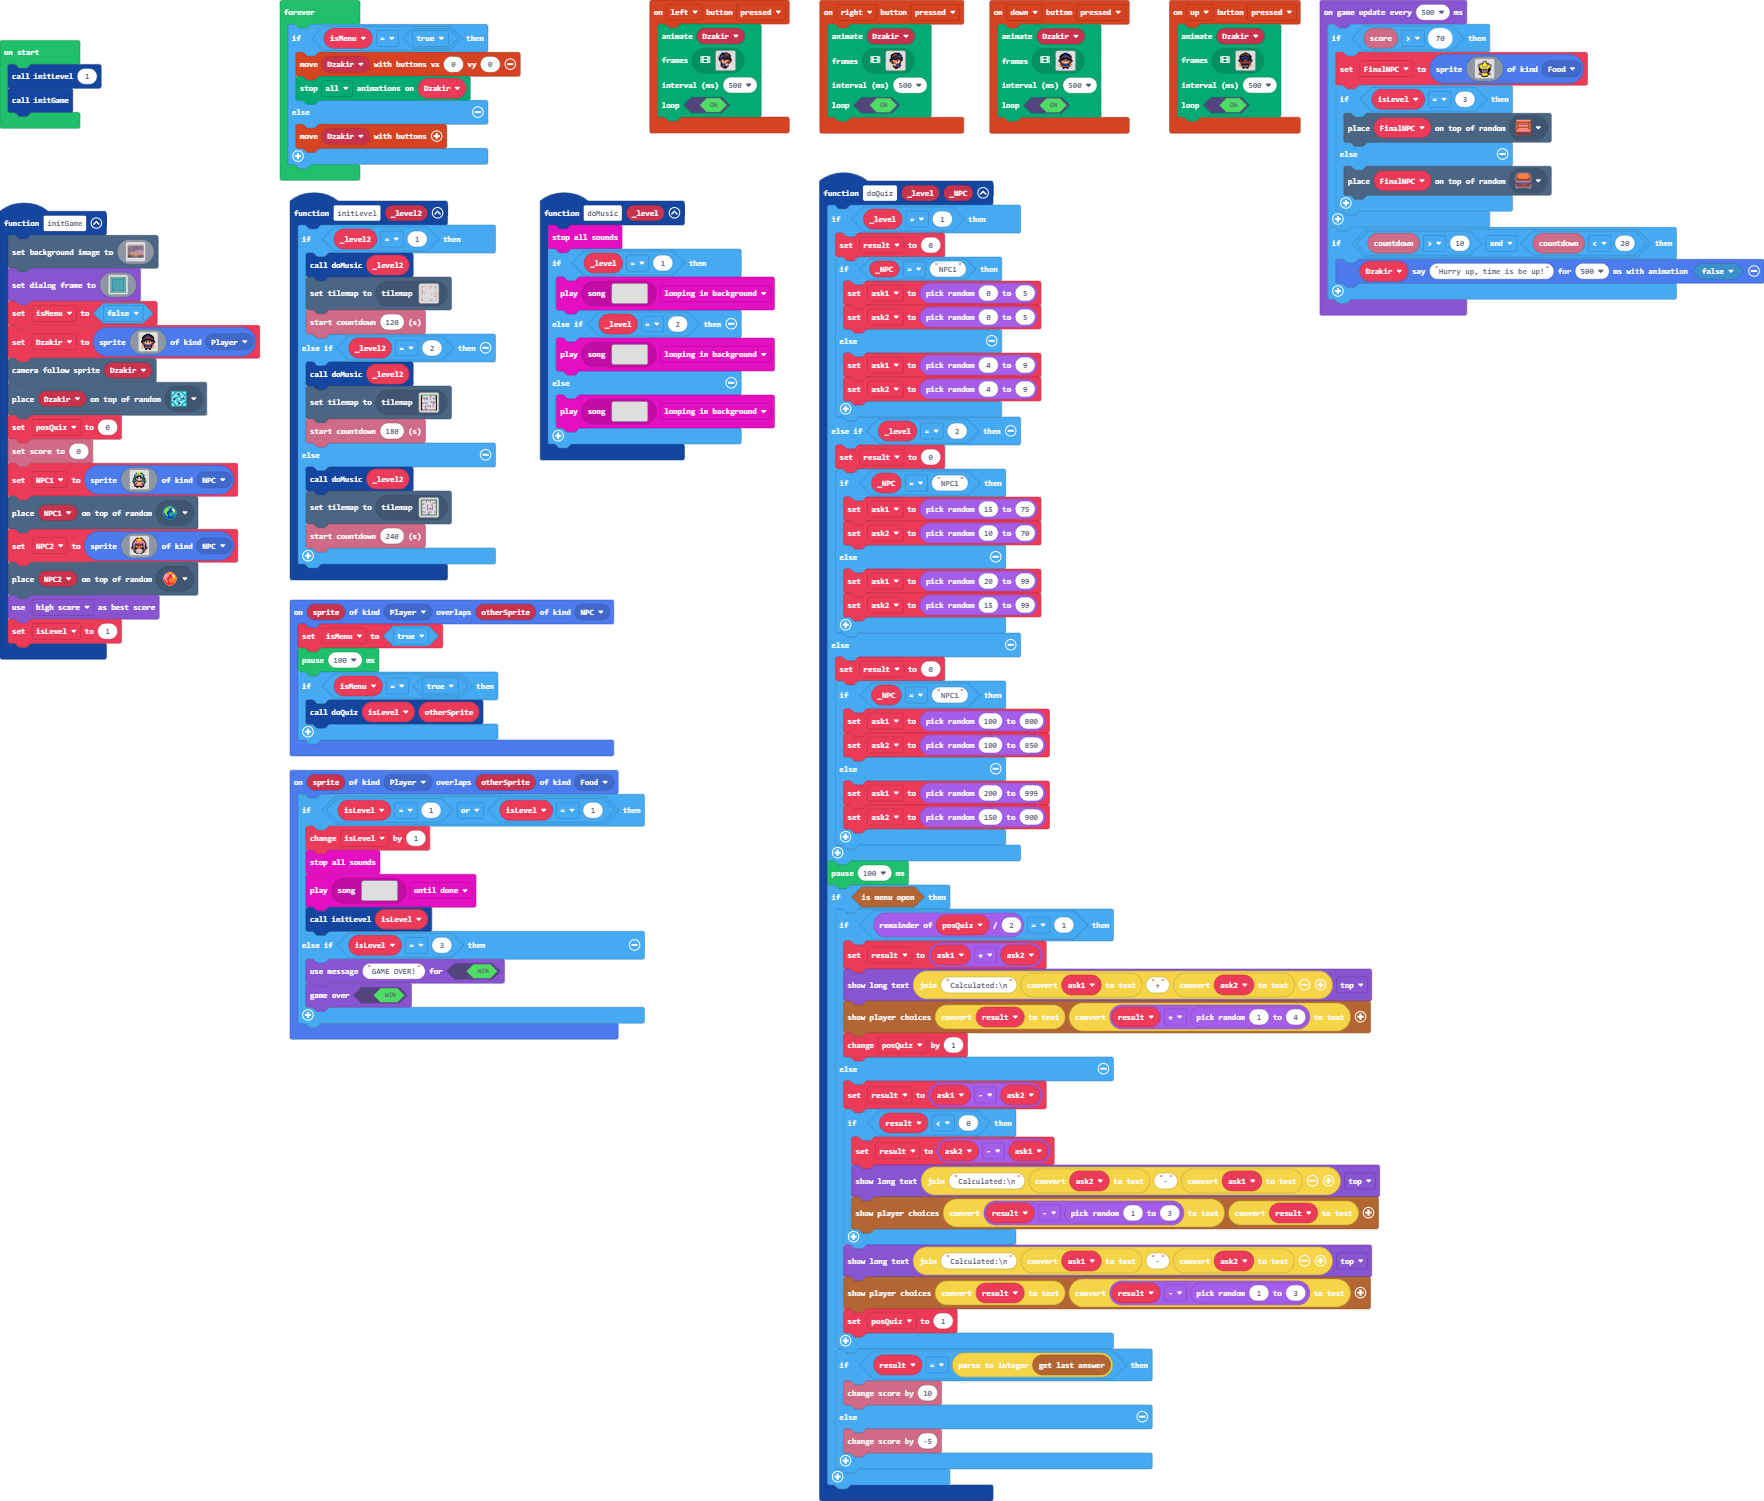
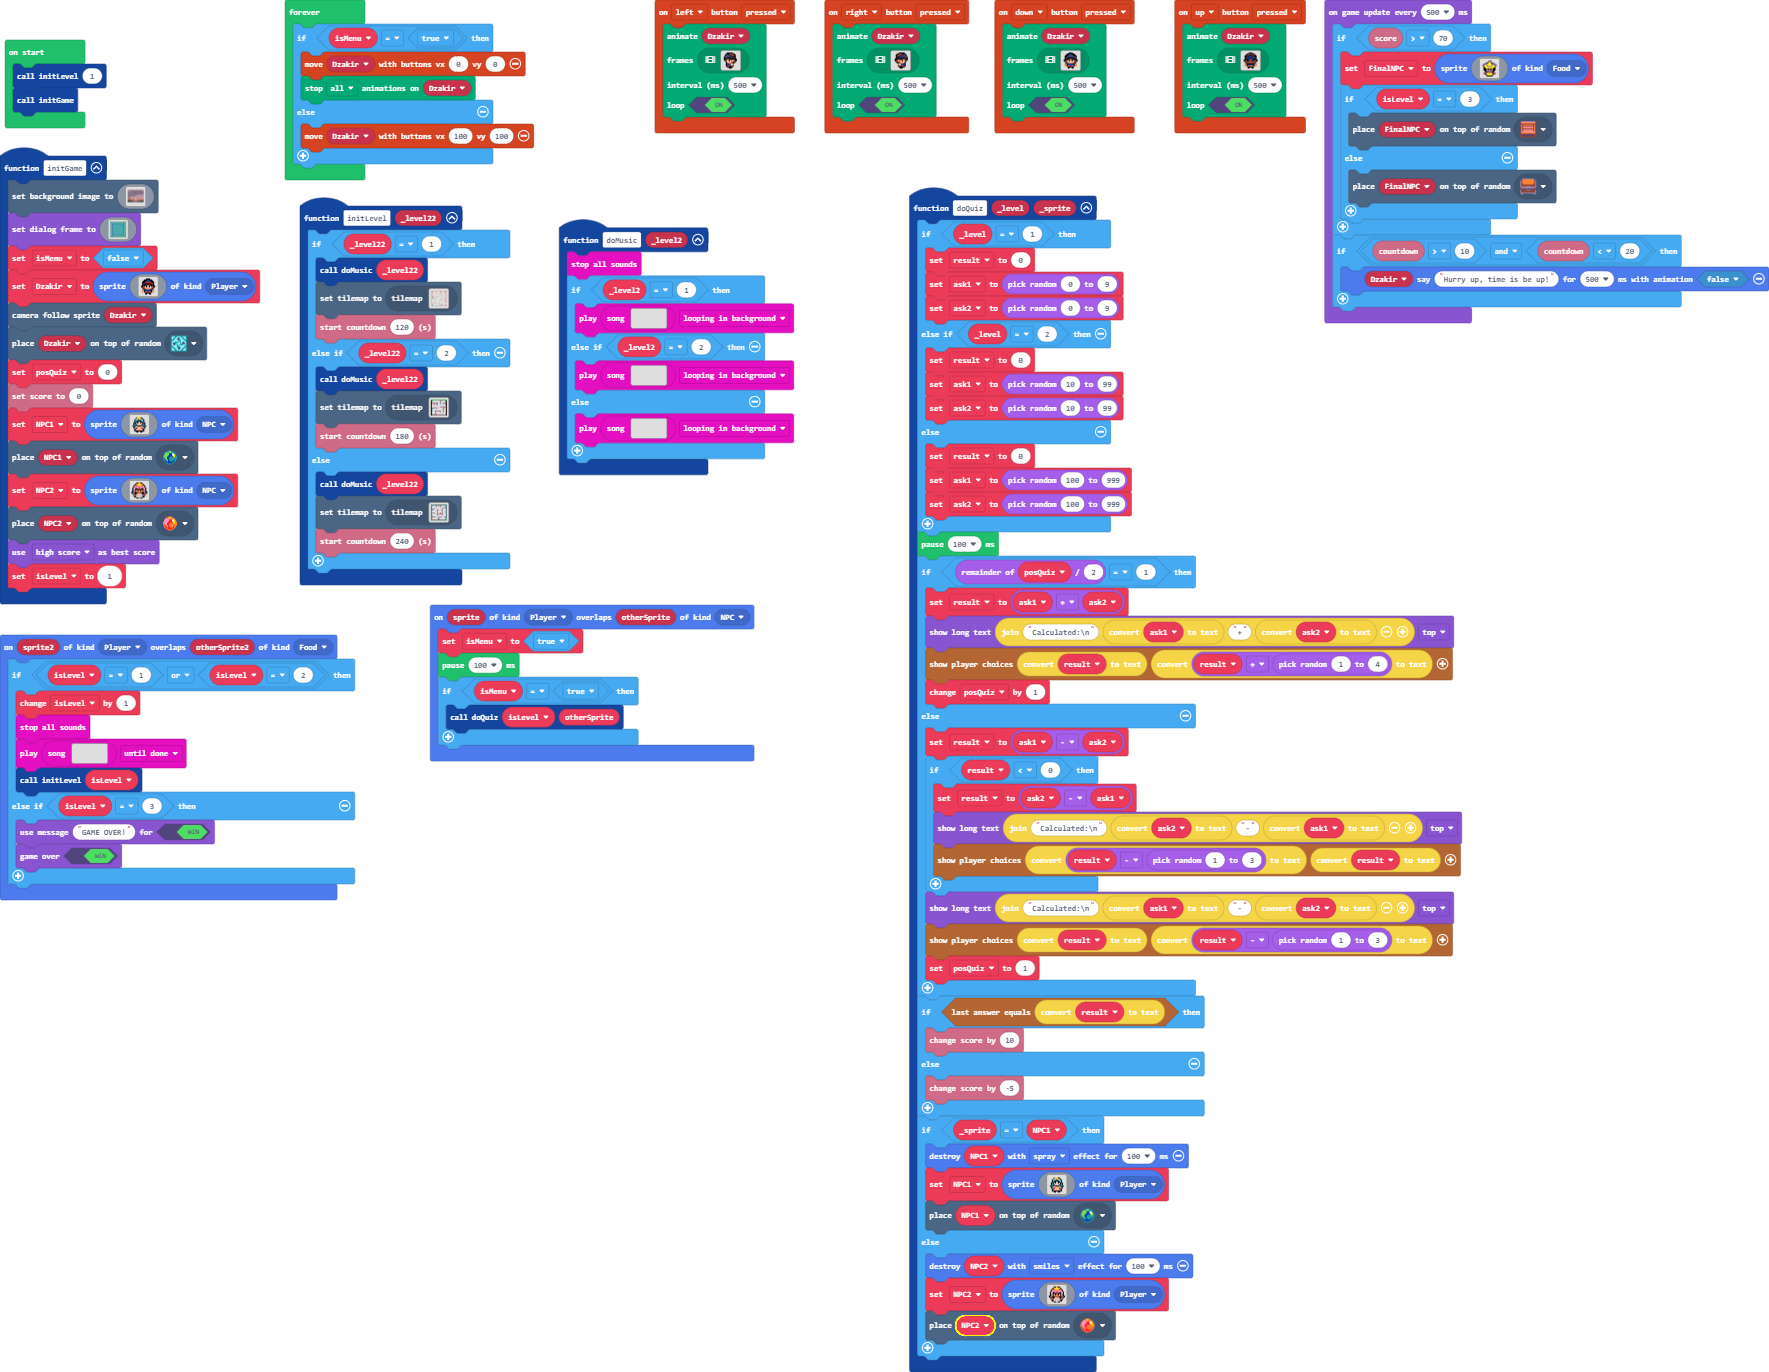
Update main.blocks, main.ts, main.py, tilemap.g.jres, tilemap.g.ts

diff --git a/main.ts b/main.ts
@@ -21,66 +21,59 @@ controller.left.onEvent(ControllerButtonEvent.Pressed, function on_left_pressed(
         NgadiniLeft
     `, 500, true)
 })
-function doQuiz(_level: number, _NPC: Sprite) {
+function doQuiz(_level: number, _sprite: Sprite) {
     
     if (_level == 1) {
         result = 0
-        if (convertToText(_NPC) == "NPC1") {
-            ask1 = randint(0, 5)
-            ask2 = randint(0, 5)
-        } else {
-            ask1 = randint(4, 9)
-            ask2 = randint(4, 9)
-        }
-        
+        ask1 = randint(0, 9)
+        ask2 = randint(0, 9)
     } else if (_level == 2) {
         result = 0
-        if (convertToText(_NPC) == "NPC1") {
-            ask1 = randint(15, 75)
-            ask2 = randint(10, 70)
-        } else {
-            ask1 = randint(20, 99)
-            ask2 = randint(15, 99)
-        }
-        
+        ask1 = randint(10, 99)
+        ask2 = randint(10, 99)
     } else {
         result = 0
-        if (convertToText(_NPC) == "NPC1") {
-            ask1 = randint(100, 800)
-            ask2 = randint(100, 850)
-        } else {
-            ask1 = randint(200, 999)
-            ask2 = randint(150, 900)
-        }
-        
+        ask1 = randint(100, 999)
+        ask2 = randint(100, 999)
     }
     
     pause(100)
-    if (story.isMenuOpen()) {
-        if (posQuiz % 2 == 1) {
-            result = ask1 + ask2
-            game.showLongText("Calculated:\\n" + convertToText(ask1) + "+" + convertToText(ask2), DialogLayout.Top)
-            story.showPlayerChoices(convertToText(result), convertToText(result + randint(1, 4)))
-            posQuiz += 1
-        } else {
-            result = ask1 - ask2
-            if (result < 0) {
-                result = ask2 - ask1
-                game.showLongText("Calculated:\\n" + convertToText(ask2) + "-" + convertToText(ask1), DialogLayout.Top)
-                story.showPlayerChoices(convertToText(result - randint(1, 3)), convertToText(result))
-            }
-            
-            game.showLongText("Calculated:\\n" + convertToText(ask1) + "-" + convertToText(ask2), DialogLayout.Top)
-            story.showPlayerChoices(convertToText(result), convertToText(result - randint(1, 3)))
-            posQuiz = 1
+    if (posQuiz % 2 == 1) {
+        result = ask1 + ask2
+        game.showLongText("Calculated:\\n" + convertToText(ask1) + "+" + convertToText(ask2), DialogLayout.Top)
+        story.showPlayerChoices(convertToText(result), convertToText(result + randint(1, 4)))
+        posQuiz += 1
+    } else {
+        result = ask1 - ask2
+        if (result < 0) {
+            result = ask2 - ask1
+            game.showLongText("Calculated:\\n" + convertToText(ask2) + "-" + convertToText(ask1), DialogLayout.Top)
+            story.showPlayerChoices(convertToText(result - randint(1, 3)), convertToText(result))
         }
         
-        if (result == parseInt(story.getLastAnswer())) {
-            info.changeScoreBy(10)
-        } else {
-            info.changeScoreBy(-5)
-        }
-        
+        game.showLongText("Calculated:\\n" + convertToText(ask1) + "-" + convertToText(ask2), DialogLayout.Top)
+        story.showPlayerChoices(convertToText(result), convertToText(result - randint(1, 3)))
+        posQuiz = 1
+    }
+    
+    if (story.checkLastAnswer(convertToText(result))) {
+        info.changeScoreBy(10)
+    } else {
+        info.changeScoreBy(-5)
+    }
+    
+    if (_sprite == NPC1) {
+        sprites.destroy(NPC1, effects.spray, 100)
+        NPC1 = sprites.create(assets.image`
+            NovitaNPC
+        `, SpriteKind.Player)
+        tiles.placeOnRandomTile(NPC1, sprites.dungeon.collectibleBlueCrystal)
+    } else {
+        sprites.destroy(NPC2, effects.smiles, 100)
+        NPC2 = sprites.create(assets.image`
+            EndangNPC
+        `, SpriteKind.Player)
+        tiles.placeOnRandomTile(NPC2, sprites.dungeon.collectibleRedCrystal)
     }
     
 }
@@ -328,7 +321,7 @@ controller.down.onEvent(ControllerButtonEvent.Pressed, function on_down_pressed(
 })
 sprites.onOverlap(SpriteKind.Player, SpriteKind.Food, function on_on_overlap2(sprite2: Sprite, otherSprite2: Sprite) {
     
-    if (isLevel == 1 || isLevel == 1) {
+    if (isLevel == 1 || isLevel == 2) {
         isLevel += 1
         music.stopAllSounds()
         music.play(music.createSong(hex`
@@ -381,7 +374,7 @@ forever(function on_forever() {
         controller.moveSprite(Dzakir, 0, 0)
         animation.stopAnimation(animation.AnimationTypes.All, Dzakir)
     } else {
-        controller.moveSprite(Dzakir)
+        controller.moveSprite(Dzakir, 100, 100)
     }
     
 })

diff --git a/tilemap.g.ts b/tilemap.g.ts
@@ -62,6 +62,25 @@ namespace myTiles {
 2 . . . . . . 2 . . . . . . . 2 
 2 2 2 2 2 2 2 2 2 2 2 2 2 2 2 2 
 `, [myTiles.transparency16,sprites.dungeon.greenOuterNorthWest,sprites.dungeon.greenOuterNorth0,sprites.dungeon.greenOuterNorth1,sprites.dungeon.greenOuterNorthEast,sprites.dungeon.greenOuterSouthWest,sprites.dungeon.greenOuterSouthEast,sprites.dungeon.greenOuterWest1,sprites.dungeon.greenOuterSouth1,sprites.dungeon.greenOuterEast0,sprites.dungeon.floorDarkDiamond,sprites.dungeon.floorDark4,sprites.dungeon.stairLadder,sprites.dungeon.purpleOuterSouth2,sprites.dungeon.collectibleRedCrystal,sprites.dungeon.collectibleInsignia,sprites.dungeon.collectibleBlueCrystal,sprites.dungeon.greenOuterWest2,sprites.dungeon.greenOuterNorth2,sprites.dungeon.greenOuterEast2,sprites.dungeon.greenOuterSouth2], TileScale.Sixteen);
+            case "level4":
+            case "level4":return tiles.createTilemap(hex`1000100000000000000000000000000000000000000000000000000000000000000000000000000000000000000000000000000000000000000000000000000000000000000000000000000000000000000000000000000000000000000000000000000000000000000000000000000000000000000000000000000000000000000000000000000000000000000000000000000000000000000000000000000000000000000000000000000000000000000000000000000000000000000000000000000000000000000000000000000000000000000000000000000000000000000000000000000000000000000000000000000000000000000000000000000000000000`, img`
+. . . . . . . . . . . . . . . . 
+. . . . . . . . . . . . . . . . 
+. . . . . . . . . . . . . . . . 
+. . . . . . . . . . . . . . . . 
+. . . . . . . . . . . . . . . . 
+. . . . . . . . . . . . . . . . 
+. . . . . . . . . . . . . . . . 
+. . . . . . . . . . . . . . . . 
+. . . . . . . . . . . . . . . . 
+. . . . . . . . . . . . . . . . 
+. . . . . . . . . . . . . . . . 
+. . . . . . . . . . . . . . . . 
+. . . . . . . . . . . . . . . . 
+. . . . . . . . . . . . . . . . 
+. . . . . . . . . . . . . . . . 
+. . . . . . . . . . . . . . . . 
+`, [myTiles.transparency16], TileScale.Sixteen);
         }
         return null;
     })

diff --git a/main.py b/main.py
@@ -22,58 +22,57 @@ def on_left_pressed():
     """), 500, True)
 controller.left.on_event(ControllerButtonEvent.PRESSED, on_left_pressed)
 
-def doQuiz(_level: number, _NPC: Sprite):
-    global result, ask1, ask2, posQuiz
+def doQuiz(_level: number, _sprite: Sprite):
+    global result, ask1, ask2, posQuiz, NPC1, NPC2
     if _level == 1:
         result = 0
-        if convert_to_text(_NPC) == "NPC1":
-            ask1 = randint(0, 5)
-            ask2 = randint(0, 5)
-        else:
-            ask1 = randint(4, 9)
-            ask2 = randint(4, 9)
+        ask1 = randint(0, 9)
+        ask2 = randint(0, 9)
     elif _level == 2:
         result = 0
-        if convert_to_text(_NPC) == "NPC1":
-            ask1 = randint(15, 75)
-            ask2 = randint(10, 70)
-        else:
-            ask1 = randint(20, 99)
-            ask2 = randint(15, 99)
+        ask1 = randint(10, 99)
+        ask2 = randint(10, 99)
     else:
         result = 0
-        if convert_to_text(_NPC) == "NPC1":
-            ask1 = randint(100, 800)
-            ask2 = randint(100, 850)
-        else:
-            ask1 = randint(200, 999)
-            ask2 = randint(150, 900)
+        ask1 = randint(100, 999)
+        ask2 = randint(100, 999)
     pause(100)
-    if story.is_menu_open():
-        if posQuiz % 2 == 1:
-            result = ask1 + ask2
-            game.show_long_text("Calculated:\\n" + convert_to_text(ask1) + "+" + convert_to_text(ask2),
+    if posQuiz % 2 == 1:
+        result = ask1 + ask2
+        game.show_long_text("Calculated:\\n" + convert_to_text(ask1) + "+" + convert_to_text(ask2),
+            DialogLayout.TOP)
+        story.show_player_choices(convert_to_text(result),
+            convert_to_text(result + randint(1, 4)))
+        posQuiz += 1
+    else:
+        result = ask1 - ask2
+        if result < 0:
+            result = ask2 - ask1
+            game.show_long_text("Calculated:\\n" + convert_to_text(ask2) + "-" + convert_to_text(ask1),
                 DialogLayout.TOP)
-            story.show_player_choices(convert_to_text(result),
-                convert_to_text(result + randint(1, 4)))
-            posQuiz += 1
-        else:
-            result = ask1 - ask2
-            if result < 0:
-                result = ask2 - ask1
-                game.show_long_text("Calculated:\\n" + convert_to_text(ask2) + "-" + convert_to_text(ask1),
-                    DialogLayout.TOP)
-                story.show_player_choices(convert_to_text(result - randint(1, 3)),
-                    convert_to_text(result))
-            game.show_long_text("Calculated:\\n" + convert_to_text(ask1) + "-" + convert_to_text(ask2),
-                DialogLayout.TOP)
-            story.show_player_choices(convert_to_text(result),
-                convert_to_text(result - randint(1, 3)))
-            posQuiz = 1
-        if result == int(story.get_last_answer()):
-            info.change_score_by(10)
-        else:
-            info.change_score_by(-5)
+            story.show_player_choices(convert_to_text(result - randint(1, 3)),
+                convert_to_text(result))
+        game.show_long_text("Calculated:\\n" + convert_to_text(ask1) + "-" + convert_to_text(ask2),
+            DialogLayout.TOP)
+        story.show_player_choices(convert_to_text(result),
+            convert_to_text(result - randint(1, 3)))
+        posQuiz = 1
+    if story.check_last_answer(convert_to_text(result)):
+        info.change_score_by(10)
+    else:
+        info.change_score_by(-5)
+    if _sprite == NPC1:
+        sprites.destroy(NPC1, effects.spray, 100)
+        NPC1 = sprites.create(assets.image("""
+            NovitaNPC
+        """), SpriteKind.player)
+        tiles.place_on_random_tile(NPC1, sprites.dungeon.collectible_blue_crystal)
+    else:
+        sprites.destroy(NPC2, effects.smiles, 100)
+        NPC2 = sprites.create(assets.image("""
+            EndangNPC
+        """), SpriteKind.player)
+        tiles.place_on_random_tile(NPC2, sprites.dungeon.collectible_red_crystal)
 
 def on_right_pressed():
     animation.run_image_animation(Dzakir,
@@ -324,7 +323,7 @@ controller.down.on_event(ControllerButtonEvent.PRESSED, on_down_pressed)
 
 def on_on_overlap2(sprite2, otherSprite2):
     global isLevel
-    if isLevel == 1 or isLevel == 1:
+    if isLevel == 1 or isLevel == 2:
         isLevel += 1
         music.stop_all_sounds()
         music.play(music.create_song(hex("""
@@ -374,7 +373,7 @@ def on_forever():
         controller.move_sprite(Dzakir, 0, 0)
         animation.stop_animation(animation.AnimationTypes.ALL, Dzakir)
     else:
-        controller.move_sprite(Dzakir)
+        controller.move_sprite(Dzakir, 100, 100)
 forever(on_forever)
 
 def on_update_interval():
